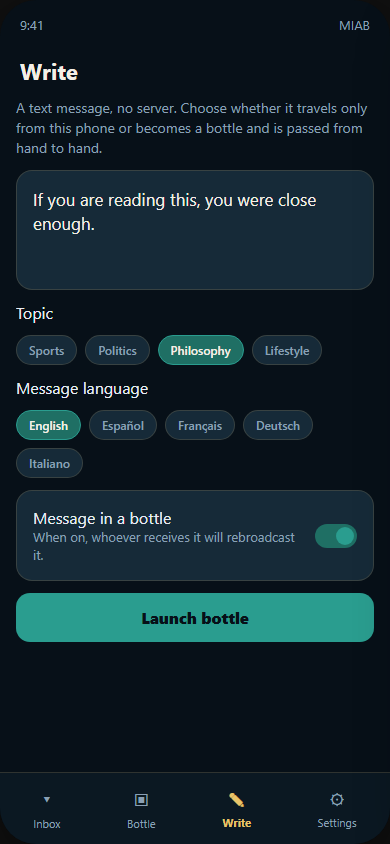
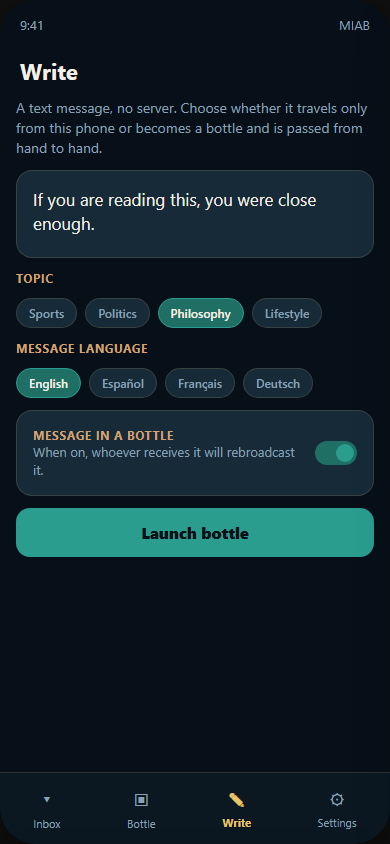
Update README screenshots with whitelist and QR share/scan.

diff --git a/docs/screenshots.html b/docs/screenshots.html
@@ -15,12 +15,15 @@
       --amber: #e9c46a;
       --sand: #d4a373;
       --paper: #f4efe6;
+      --ink: #1b242c;
       --text: #e8eef4;
       --muted: #8aa0b5;
+      --danger: #e76f51;
     }
     * { box-sizing: border-box; margin: 0; padding: 0; }
     body { background: #111; font-family: -apple-system, Segoe UI, sans-serif; }
-    .row { display: flex; gap: 28px; padding: 28px; }
+    .phones { display: flex; gap: 28px; padding: 28px 28px 0; }
+    .phones.last { padding-bottom: 28px; padding-top: 28px; }
     .phone {
       width: 390px;
       height: 844px;
@@ -32,9 +35,11 @@
       display: flex;
       flex-direction: column;
       box-shadow: 0 20px 60px rgba(0,0,0,.45);
+      flex-shrink: 0;
     }
     .status { height: 48px; padding: 16px 20px 0; font-size: 13px; color: var(--muted); display: flex; justify-content: space-between; }
     .header { padding: 8px 20px 12px; font-size: 22px; font-weight: 700; color: var(--paper); }
+    .back { color: var(--sand); font-size: 14px; font-weight: 600; }
     .body { flex: 1; overflow: hidden; padding: 0 16px 12px; display: flex; flex-direction: column; gap: 12px; }
     .banner {
       display: flex; gap: 10px; align-items: center;
@@ -70,23 +75,48 @@
     .tabs .on { color: var(--amber); font-weight: 700; }
     .tab { display: flex; flex-direction: column; align-items: center; gap: 4px; }
     .ico { font-size: 18px; }
-    label.lbl { color: var(--sand); font-weight: 700; letter-spacing: .6px; text-transform: uppercase; font-size: 12px; }
+    .lbl { color: var(--sand); font-weight: 700; letter-spacing: .6px; text-transform: uppercase; font-size: 12px; }
     .input {
-      min-height: 120px; background: var(--card); border: 1px solid var(--line); border-radius: 16px;
+      min-height: 88px; background: var(--card); border: 1px solid var(--line); border-radius: 16px;
       padding: 16px; color: var(--paper); font-size: 17px; line-height: 24px;
     }
+    .field {
+      background: var(--card); border: 1px solid var(--line); border-radius: 12px;
+      padding: 10px 12px; color: var(--muted); font-size: 14px;
+    }
     .cta { background: var(--accent); color: var(--bg); font-weight: 800; font-size: 16px; border-radius: 14px; padding: 14px; text-align: center; }
+    .ghost {
+      border-radius: 10px; padding: 8px 12px; border: 1px solid var(--sand); color: var(--sand);
+      font-weight: 700; font-size: 13px; display: inline-block;
+    }
     .section { background: var(--card); border: 1px solid var(--line); border-radius: 16px; padding: 16px; }
     .section h3 { color: var(--sand); font-size: 12px; letter-spacing: 1px; text-transform: uppercase; margin-bottom: 8px; }
     .hint { color: var(--muted); font-size: 13px; line-height: 18px; }
     .mono { font-family: ui-monospace, Menlo, monospace; font-size: 12px; color: var(--paper); margin: 6px 0; }
-    .row { display: flex; justify-content: space-between; align-items: center; gap: 12px; }
+    .hline { display: flex; justify-content: space-between; align-items: center; gap: 12px; }
     .switch { width: 42px; height: 24px; border-radius: 12px; background: var(--accentDim); position: relative; flex-shrink: 0; }
     .switch:after { content: ""; width: 18px; height: 18px; border-radius: 50%; background: var(--accent); position: absolute; right: 3px; top: 3px; }
+    .qr-wrap { background: var(--paper); padding: 18px; border-radius: 20px; align-self: center; }
+    .qr-wrap img { width: 220px; height: 220px; display: block; }
+    .center { text-align: center; }
+    .camera {
+      flex: 1; border-radius: 20px; border: 1px solid var(--line); overflow: hidden;
+      background: radial-gradient(circle at 50% 40%, #1b3344, #071018 70%);
+      position: relative; min-height: 360px;
+    }
+    .finder {
+      position: absolute; left: 50%; top: 42%; width: 180px; height: 180px;
+      margin: -90px 0 0 -90px; border: 2px solid var(--accent); border-radius: 16px;
+    }
+    .finder:before {
+      content: ""; position: absolute; inset: 18px; background: url("images/sample-uuid-qr.png") center/contain no-repeat;
+      opacity: .85; border-radius: 8px;
+    }
+    .danger { border: 1px solid var(--danger); color: var(--danger); border-radius: 8px; padding: 6px 10px; font-size: 12px; font-weight: 700; }
   </style>
 </head>
 <body>
-  <div class="row">
+  <div class="phones">
     <div class="phone" id="inbox">
       <div class="status"><span>9:41</span><span>MIAB</span></div>
       <div class="header">Inbox</div>
@@ -94,7 +124,7 @@
         <div class="banner"><div class="dot"></div><div><b>On air · GATT</b><span>2 nearby · queue 1 · every 8s</span></div></div>
         <p class="lead">Messages that arrived phone to phone. Direct ones stay here. Bottles also enter the forwarding pool unless you silence them.</p>
         <div class="chips">
-          <span class="chip on">All</span><span class="chip">Sports</span><span class="chip">Politics</span><span class="chip">Philosophy</span><span class="chip">Lifestyle</span>
+          <span class="chip on">All</span><span class="chip">Sports</span><span class="chip">Politics</span><span class="chip">Philosophy</span>
         </div>
         <div class="card">
           <div class="meta"><span>Philosophy</span><span class="time">just now</span></div>
@@ -149,8 +179,8 @@
         <div class="lbl">Topic</div>
         <div class="chips"><span class="chip">Sports</span><span class="chip">Politics</span><span class="chip on">Philosophy</span><span class="chip">Lifestyle</span></div>
         <div class="lbl">Message language</div>
-        <div class="chips"><span class="chip on">English</span><span class="chip">Español</span><span class="chip">Français</span><span class="chip">Deutsch</span><span class="chip">Italiano</span></div>
-        <div class="card row">
+        <div class="chips"><span class="chip on">English</span><span class="chip">Español</span><span class="chip">Français</span><span class="chip">Deutsch</span></div>
+        <div class="card hline">
           <div><div class="lbl">Message in a bottle</div><div class="hint">When on, whoever receives it will rebroadcast it.</div></div>
           <div class="switch"></div>
         </div>
@@ -170,24 +200,29 @@
       <div class="body">
         <div class="banner"><div class="dot"></div><div><b>On air · GATT</b><span>2 nearby · queue 1 · every 8s</span></div></div>
         <div class="section">
-          <h3>App language</h3>
-          <p class="hint">Language of the interface. Incoming messages default to this language only.</p>
-          <p class="mono">English · en</p>
+          <h3>Identity</h3>
+          <p class="mono">3f8a1c2e-9b4d-4e71-a2c8-7d6e5f4a3b21</p>
+          <p class="hint">Origin UUID for this phone.</p>
+          <div class="chips" style="margin-top:8px">
+            <span class="ghost">Regenerate UUID</span>
+            <span class="ghost">Show my QR</span>
+          </div>
         </div>
         <div class="section">
-          <h3>Languages to receive</h3>
-          <p class="hint">By default only messages in the app language are accepted.</p>
-          <p class="mono">1 selected</p>
+          <h3>UUID whitelist</h3>
+          <p class="hint">1 phones allowed. When the whitelist is on, only those UUIDs may sync over GATT.</p>
+          <div style="margin-top:8px"><span class="ghost">Open whitelist</span></div>
+        </div>
+        <div class="section">
+          <h3>App language</h3>
+          <p class="hint">Language of the interface.</p>
+          <p class="mono">English · en</p>
         </div>
         <div class="section">
           <h3>Topics to receive</h3>
           <div class="chips" style="margin-top:8px">
-            <span class="chip on">Sports</span><span class="chip on">Politics</span><span class="chip on">Philosophy</span><span class="chip on">Science</span>
+            <span class="chip on">Sports</span><span class="chip on">Politics</span><span class="chip on">Philosophy</span>
           </div>
-        </div>
-        <div class="section">
-          <h3>GATT radio</h3>
-          <div class="row"><div><b>Transmit and listen</b><div class="hint">No internet.</div></div><div class="switch"></div></div>
         </div>
       </div>
       <div class="tabs">
@@ -195,6 +230,54 @@
         <div class="tab"><span class="ico">▣</span>Bottle</div>
         <div class="tab"><span class="ico">✎</span>Write</div>
         <div class="tab on"><span class="ico">⚙</span>Settings</div>
+      </div>
+    </div>
+  </div>
+
+  <div class="phones last">
+    <div class="phone" id="whitelist">
+      <div class="status"><span>9:41</span><span class="back">‹ Settings</span></div>
+      <div class="header">UUID whitelist</div>
+      <div class="body">
+        <p class="lead">When the whitelist is on, this phone only talks to listed UUIDs. Share your QR so someone can add you, or scan theirs to add them.</p>
+        <div class="card hline">
+          <div><div style="font-weight:700">Require whitelist</div><div class="hint">Off: anyone nearby can send. On: only listed UUIDs.</div></div>
+          <div class="switch"></div>
+        </div>
+        <div class="chips">
+          <span class="ghost">Show my QR</span>
+          <span class="ghost">Scan a QR</span>
+        </div>
+        <div class="field">uuid…</div>
+        <div class="cta">Add UUID</div>
+        <div class="card hline">
+          <div>
+            <div class="mono">7c91d0ab-12ef-4b33-9c44-88aa0011bb22</div>
+            <div class="hint">7c91d0ab · QR</div>
+          </div>
+          <span class="danger">Remove</span>
+        </div>
+      </div>
+    </div>
+
+    <div class="phone" id="share">
+      <div class="status"><span>9:41</span><span class="back">‹ Whitelist</span></div>
+      <div class="header">Share UUID</div>
+      <div class="body" style="align-items:center; padding-top: 8px;">
+        <p class="lead center">Let someone scan this code to put your phone UUID on their whitelist.</p>
+        <div class="qr-wrap">
+          <img src="images/sample-uuid-qr.png" alt="UUID QR code">
+        </div>
+        <p class="mono center">3f8a1c2e-9b4d-4e71-a2c8-7d6e5f4a3b21</p>
+      </div>
+    </div>
+
+    <div class="phone" id="scan">
+      <div class="status"><span>9:41</span><span class="back">‹ Whitelist</span></div>
+      <div class="header">Scan UUID</div>
+      <div class="body">
+        <p class="lead center">Point the camera at another phone’s Message in a Bottle QR.</p>
+        <div class="camera"><div class="finder"></div></div>
       </div>
     </div>
   </div>

diff --git a/README.md b/README.md
@@ -13,13 +13,21 @@ Android and iPhone app for sending **text messages** between nearby phones over 
 ## Screens
 
 <p align="center">
-  <img src="docs/images/screen-inbox.png" width="200" alt="Inbox screen">
-  <img src="docs/images/screen-bottle.png" width="200" alt="Bottle pool screen">
-  <img src="docs/images/screen-write.png" width="200" alt="Write screen">
-  <img src="docs/images/screen-settings.png" width="200" alt="Settings screen">
+  <img src="docs/images/screen-inbox.png" width="180" alt="Inbox">
+  <img src="docs/images/screen-bottle.png" width="180" alt="Bottle">
+  <img src="docs/images/screen-write.png" width="180" alt="Write">
+  <img src="docs/images/screen-settings.png" width="180" alt="Settings">
 </p>
 
-Inbox · Bottle · Write · Settings
+<p align="center">Inbox · Bottle · Write · Settings</p>
+
+<p align="center">
+  <img src="docs/images/screen-whitelist.png" width="180" alt="UUID whitelist">
+  <img src="docs/images/screen-share.png" width="180" alt="Share UUID QR">
+  <img src="docs/images/screen-scan.png" width="180" alt="Scan UUID QR">
+</p>
+
+<p align="center">Whitelist · Share QR · Scan QR</p>
 
 ## How a message travels
 
